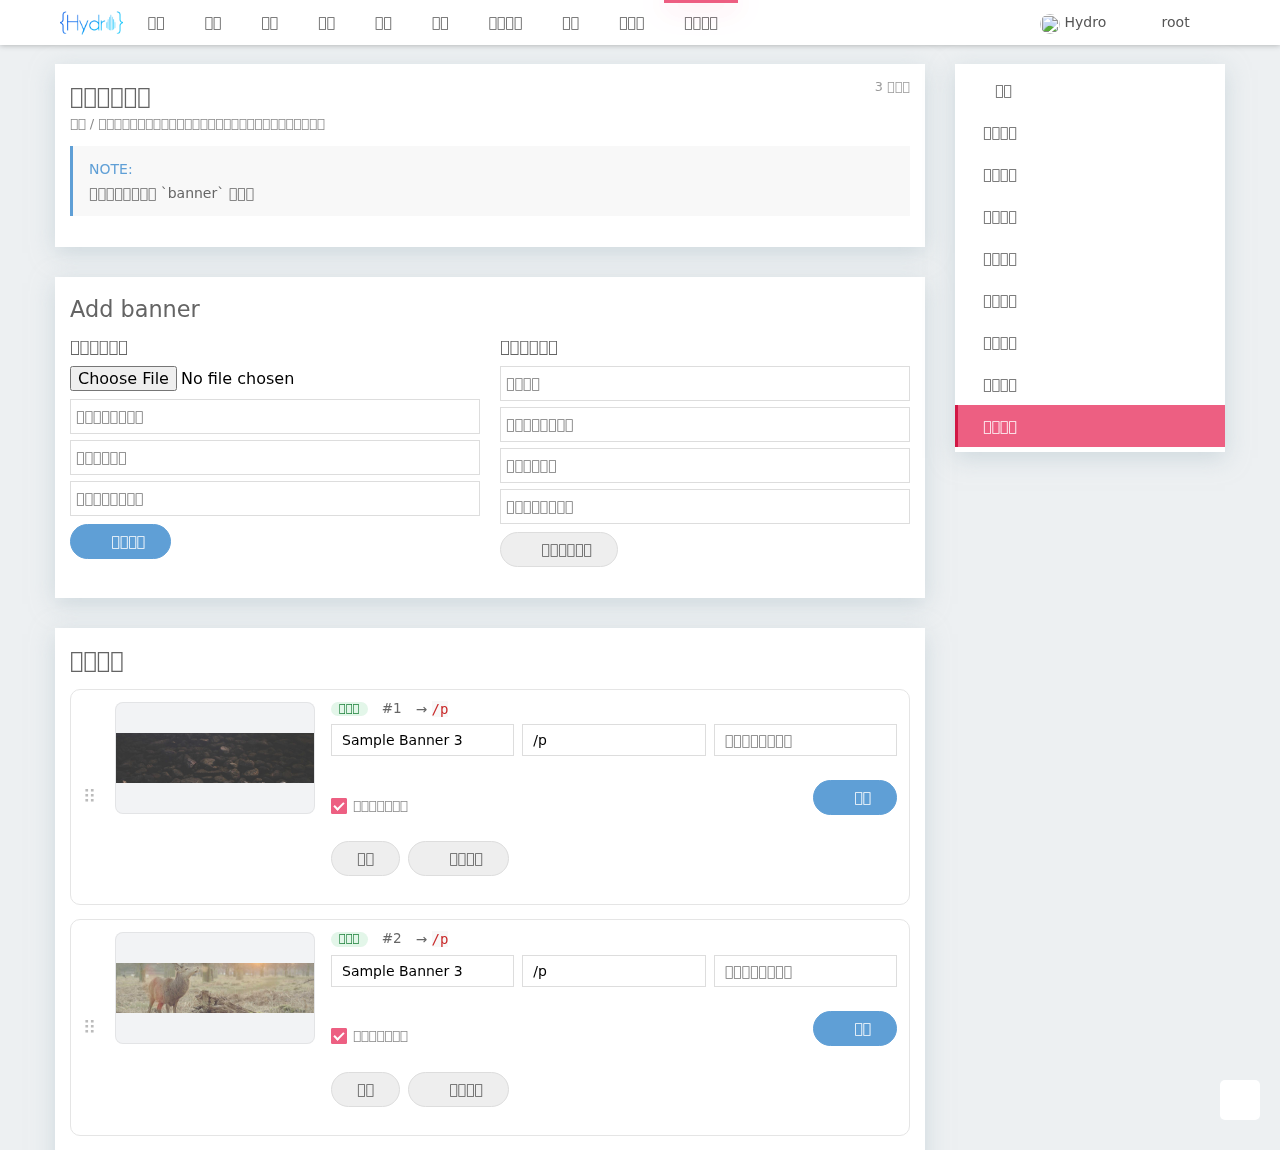
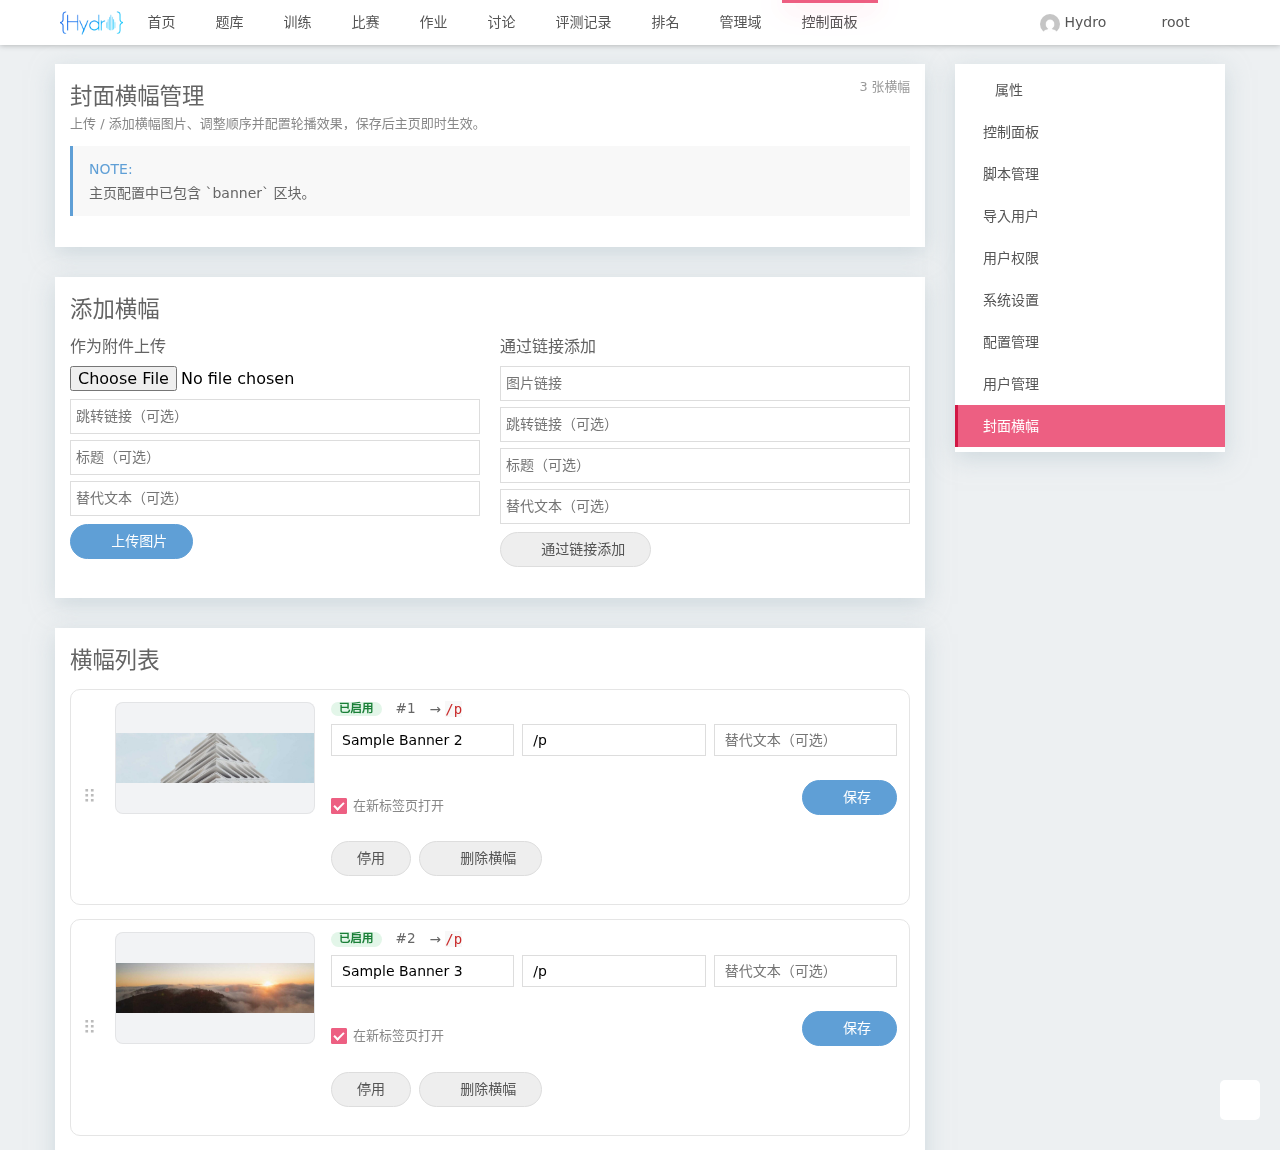
docs: re-render showcase screenshot with CJK fonts; README: emphasize required homepage config step; i18n: translate 添加横幅/横幅列表

diff --git a/index.ts b/index.ts
@@ -394,6 +394,8 @@ export function apply(ctx: Context) {
         manage_banner: '封面横幅',
         'Banner Management': '封面横幅管理',
         'Welcome Banner': '欢迎横幅',
+        'Add banner': '添加横幅',
+        'Slides': '横幅列表',
         'Add / upload banner slides, reorder them and tune the carousel — changes take effect on the homepage immediately.':
             '上传 / 添加横幅图片、调整顺序并配置轮播效果，保存后主页即时生效。',
         'Upload image': '上传图片',

diff --git a/README.md b/README.md
@@ -24,6 +24,8 @@
 
 - HydroOJ v5.x
 
+> ⚠ **安装后必须再改一处配置横幅才会显示！** 插件本身只提供管理页面，横幅是否出现在首页取决于首页配置 `hydrooj.homepage` 中是否有 `banner` 区块。装好后请务必完成下面的 [主页配置](#主页配置)（推荐用管理页里的一键按钮）。
+
 ## 部署
 
 ### 方式 A：从 Release 一行安装（推荐）
@@ -60,13 +62,25 @@ pm2 restart hydrooj
 
 ## 主页配置
 
-横幅会在首页配置 `hydrooj.homepage` 中出现 `banner` 区块的位置渲染。打开 **封面横幅管理** 点击「一键将 `banner` 加入主页」，或在系统设置中手动加入：
+> **这一步是必需的**，否则横幅不会出现在首页。
+
+横幅会在首页配置 `hydrooj.homepage` 中出现 `banner` 区块的位置渲染。有两种方式：
+
+**方式一（推荐）：** 打开 **封面横幅管理** 页面，点击顶部的「一键将 `banner` 加入主页」按钮，插件会自动把 `banner` 写入首页配置。
+
+**方式二（手动）：** 进入 *控制面板 → 系统设置 → `hydrooj.homepage`*，在某一列里加入 `banner` 这个顶层键（注意当前版本 HydroOJ 是用顶层键作为区块名，不是旧文档里的 `sections:` 数组）：
 
 ```yaml
-- width: 12
-  banner: true
-  ...
+- width: 9
+  banner: true          # ← 加这一行
+  bulletin: true
+  contest: 5
+  # ...其余保持不变
+- width: 3
+  # ...
 ```
+
+保存后刷新首页即可看到横幅。之后所有的增删改、排序、开关都在 **封面横幅管理** 页面完成，无需再动配置文件。
 
 ## 图片存储说明
 
